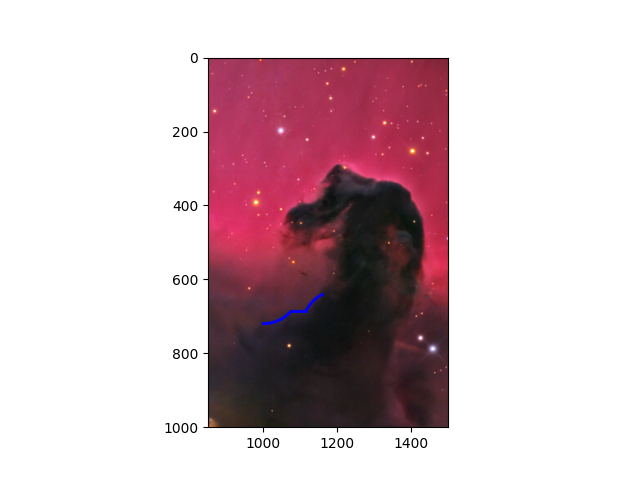
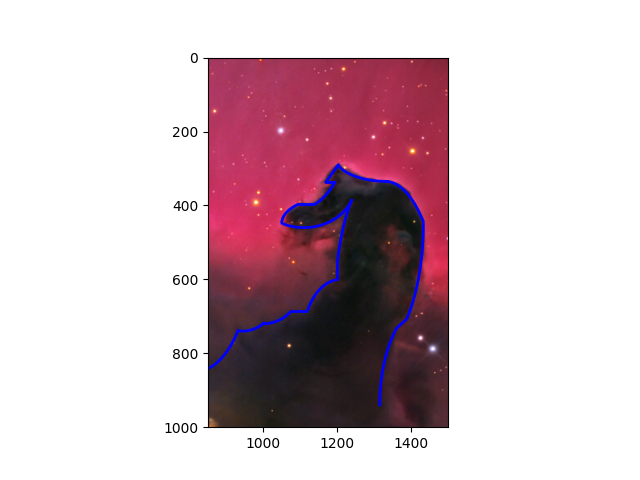
dsadsda12313dasdad31312312dsadada3131313

diff --git a/img_aprox.py b/img_aprox.py
@@ -18,9 +18,94 @@ y = [685, 685]
 
 ax.plot(x, y, '-', lw=2, color='b')
 
-t = np.linspace(2.3*np.pi/2, 2.7* np.pi/2, 100)
-x = 1205 + 100*np.cos(t)
-y = 730 + 100*np.sin(t)
+t = np.linspace(2.3*np.pi/2, 2.9* np.pi/2, 100)
+x = 1210 + 100*np.cos(t)
+y = 750 + 150*np.sin(t)
+
+ax.plot(x, y, '-', lw=2, color='b')
+
+x = [1200, 1200]
+y = [600, 550]
+
+ax.plot(x, y, '-', lw=2, color='b')
+
+t = np.linspace(2.3*np.pi/2, 2.65* np.pi/2, 100)
+x = 1290 + 100*np.cos(t)
+y = 730 + 400*np.sin(t)
+
+ax.plot(x, y, '-', lw=2, color='b')
+
+t = np.linspace(np.pi/8, 1.25*np.pi/2, 100)
+x = 1110 + 140*np.cos(t)
+y = 340 + 120*np.sin(t)
+
+ax.plot(x, y, '-', lw=2, color='b')
+
+t = np.linspace(np.pi, 2.5*np.pi/2, 100)
+x = 1190 + 140*np.cos(t)
+y = 448 + 70*np.sin(t)
+
+ax.plot(x, y, '-', lw=2, color='b')
+
+x = [1097, 1135]
+y = [395, 395]
+
+ax.plot(x, y, '-', lw=2, color='b')
+
+t = np.linspace(np.pi/5.2, 0.7*np.pi/2, 100)
+x = 1078 + 140*np.cos(t)
+y = 235 + 180*np.sin(t)
+
+ax.plot(x, y, '-', lw=2, color='b')
+
+x = [1170, 1190]
+y = [336, 336]
+
+ax.plot(x, y, '-', lw=2, color='b')
+
+x = [1170, 1203]
+y = [336, 290]
+
+ax.plot(x, y, '-', lw=2, color='b')
+
+t = np.linspace(np.pi/2, np.pi/1.15, 100)
+x = 1335 + 140*np.cos(t)
+y = 270 + 65*np.sin(t)
+
+ax.plot(x, y, '-', lw=2, color='b')
+
+t = np.linspace(3*np.pi/2, 2*np.pi/1.15, 100)
+x = 1330 + 150*np.cos(t)
+y = 735 + 400*np.sin(t)
+
+ax.plot(x, y, '-', lw=2, color='b')
+
+t = np.linspace(0, np.pi/4, 100)
+x = 1283 + 150*np.cos(t)
+y = 450 + 360*np.sin(t)
+
+ax.plot(x, y, '-', lw=2, color='b')
+
+x = [1363, 1385]
+y = [730, 710]
+
+ax.plot(x, y, '-', lw=2, color='b')
+
+t = np.linspace(np.pi, 3*np.pi/2.4, 100)
+x = 1465 + 150*np.cos(t)
+y = 940 + 290*np.sin(t)
+
+ax.plot(x, y, '-', lw=2, color='b')
+
+t = np.linspace(np.pi/2.65, np.pi/1.9, 100)
+x = 945 + 150*np.cos(t)
+y = 450 + 290*np.sin(t)
+
+ax.plot(x, y, '-', lw=2, color='b')
+
+t = np.linspace(np.pi/4.6, np.pi/2.3, 100)
+x = 815 + 150*np.cos(t)
+y = 550 + 300*np.sin(t)
 
 ax.plot(x, y, '-', lw=2, color='b')
 
